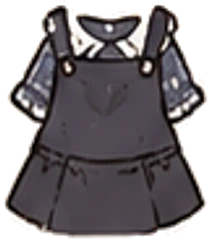
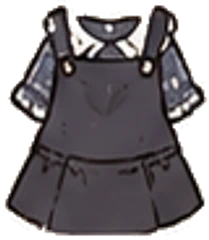
Dress Up: dress the doll from Aiman's design with full arms; no accessories
Dresses on the other girls looked pasted on over their own painted
clothes, so Dress Up now dresses the doll from her Dress-Up Room design,
with her arm coming out of every sleeve, and the dresses' light card rim
peeled off. Done puts the dressed doll at home; "<girl>'s own look" puts
the chosen girl back. The Accessories tab is removed at her request.

diff --git a/public/js/dressup.js b/public/js/dressup.js
@@ -1,11 +1,13 @@
-// Dress Up: pick one of your girls, then dress her in the outfits and accessories from
-// Aiman's Dress-Up Room design (cut by assets/cut-dressup.mjs into img/dressup/), add makeup,
-// and pick a background. Some things are free, the rest cost stars. "Done" saves the look for
-// that girl, and she wears it at home too; "Her outfit" puts her own clothes back on.
+// Dress Up: dress the doll from Aiman's Pastel Kawaii Dress-Up Room design in its outfits and
+// accessories (all cut by assets/cut-dressup.mjs into img/dressup/), add makeup, and pick a
+// background. Some things are free, the rest cost stars. "Done" saves the look and she stands
+// at home wearing it; "My girl's own look" puts your chosen girl back at home in her own clothes.
+// (Dressing the doll, who only wears a camisole and shorts, looks natural; the other girls
+// can become dolls too once the hair sheet gives the doll their hairstyles.)
 //
 // A look: { dress: 1..18 | null, acc: ['bow', ...], makeup: { blush, lips, shadow, freckles, sparkle }, bg }
-// Everything is placed on the girl by her height (all the standing girls share one shape):
-// the dress from her shoulders to her knees, the doll's arms coming out of its sleeves.
+// Everything is placed in the doll's own picture (img/dressup/doll.webp, 348 x 710):
+// the dress from her shoulders to her knees, her arm coming out of each sleeve.
 window.BW = window.BW || {};
 
 BW.dressup = (() => {
@@ -22,16 +24,18 @@ BW.dressup = (() => {
   const DRESS_PRICES = [0, 0, 150, 150, 120, 0, 180, 200, 0, 160, 200, 180, 160, 0, 250, 0, 180, 220];
   const DRESSES = DRESS_NAMES.map((name, i) => ({ id: 'dress-' + (i + 1), n: i + 1, name, price: FREE_DRESSES.includes(i + 1) ? 0 : DRESS_PRICES[i] }));
 
-  // accessories: where they sit, in parts of the girl's height from the middle of her head
-  // (x) and from the top of the picture (y), and how big (w)
+  // the doll: her picture's size, the middle of her body and of her face (doll pixels)
+  const DOLL = { w: 348, h: 710, body: 178, face: 172 };
+  // accessories: where their middle sits, in doll pixels from the middle of her face (x) and
+  // from the top (y), and how wide (w)
   const ACCS = [
-    { id: 'bow', n: 1, name: 'Ribbon Bow', price: 0, x: 0.12, y: 0.06, w: 0.1, rot: 0.25 },
-    { id: 'pins', n: 2, name: 'Hair Pins', price: 60, x: -0.13, y: 0.15, w: 0.085, rot: -0.5 },
-    { id: 'headband', n: 3, name: 'Headband', price: 80, x: 0, y: 0.068, w: 0.2, sy: 0.55 },
-    { id: 'beret', n: 4, name: 'Beret', price: 120, x: 0.015, y: 0.06, w: 0.25, rot: 0.08 },
-    { id: 'glasses', n: 5, name: 'Round Glasses', price: 0, x: 0, y: 0.264, w: 0.125 },
-    { id: 'bag', n: 6, name: 'Shoulder Bag', price: 100, x: 0.16, y: 0.6, w: 0.13 },
-    { id: 'bunny', n: 7, name: 'Bunny Plush', price: 150, x: -0.165, y: 0.65, w: 0.12 }
+    { id: 'bow', n: 1, name: 'Ribbon Bow', price: 0, x: 86, y: 52, w: 66, rot: 0.3 },
+    { id: 'pins', n: 2, name: 'Hair Pins', price: 60, x: -88, y: 150, w: 54, rot: -0.6 },
+    { id: 'headband', n: 3, name: 'Headband', price: 80, x: 4, y: 62, w: 214, sy: 0.45 },
+    { id: 'beret', n: 4, name: 'Beret', price: 120, x: 10, y: 52, w: 220, rot: 0.08 },
+    { id: 'glasses', n: 5, name: 'Round Glasses', price: 0, x: 8, y: 192, w: 132 },
+    { id: 'bag', n: 6, name: 'Shoulder Bag', price: 100, x: 104, y: 450, w: 84 },
+    { id: 'bunny', n: 7, name: 'Bunny Plush', price: 150, x: -96, y: 470, w: 80 }
   ];
   // only one thing on top of the head at a time
   const ON_HEAD = ['headband', 'beret'];
@@ -81,24 +85,24 @@ BW.dressup = (() => {
     return sleeves;
   }
 
-  // The girl wearing a look, drawn onto a new canvas (a bit wider than her picture so wide
+  // The doll wearing a look, drawn onto a new canvas (a bit wider than her picture so wide
   // sleeves fit). Resolves to null if her picture can't load.
-  async function render(girl, look) {
-    const body = await pic(`img/standing/${girl}.webp`);
+  async function render(look) {
+    const body = await pic('img/dressup/doll.webp');
     if (!body) return null;
-    const h = body.naturalHeight, w = body.naturalWidth, W = Math.round(w * 1.25), cx = W / 2;
+    const { h } = DOLL, W = Math.round(DOLL.w * 1.2), ox = W / 2 - DOLL.body;
     const c = document.createElement('canvas');
     c.width = W; c.height = h;
     const ctx = c.getContext('2d');
-    ctx.drawImage(body, (W - w) / 2, 0, w, h);
+    ctx.drawImage(body, ox, 0);
     if (look && look.dress) {
       const [dress, arm, sl] = await Promise.all([pic(`img/dressup/dress/${look.dress}.webp`), pic('img/dressup/arm.webp'), sleeveData()]);
       if (dress) {
-        const dh = h * 0.43, dw = dh * dress.naturalWidth / dress.naturalHeight, dx = cx - dw / 2, dy = h * 0.35;
+        const dh = h * 0.4225, dw = dh * dress.naturalWidth / dress.naturalHeight, dx = W / 2 - dw / 2, dy = h * 0.352;
         const s = sl[look.dress - 1];
         if (arm && s) {
-          // full arms: the doll's arm under each sleeve (mirrored for the left one)
-          const ah = h * 0.22, aw = ah * arm.naturalWidth / arm.naturalHeight;
+          // full arms: her arm coming out of each sleeve (mirrored for the left one)
+          const ah = h * 0.26, aw = ah * arm.naturalWidth / arm.naturalHeight;
           [[s.left, -1], [s.right, 1]].forEach(([p, flip]) => {
             ctx.save();
             ctx.translate(dx + p[0] * dw, dy + p[1] * dh - ah * 0.45);
@@ -111,14 +115,15 @@ BW.dressup = (() => {
       }
     }
     if (look) {
-      drawMakeup(ctx, cx, h, look.makeup || {});
+      const fx = ox + DOLL.face;
+      drawMakeup(ctx, fx, look.makeup || {});
       for (const id of look.acc || []) {
         const a = ACCS.find(x => x.id === id);
         const im = a && await pic(`img/dressup/acc/${a.n}.webp`);
         if (!im) continue;
-        const aw = h * a.w, ah = aw * im.naturalHeight / im.naturalWidth * (a.sy || 1);
+        const aw = a.w, ah = aw * im.naturalHeight / im.naturalWidth * (a.sy || 1);
         ctx.save();
-        ctx.translate(cx + a.x * h, a.y * h);
+        ctx.translate(fx + a.x, a.y);
         if (a.rot) ctx.rotate(a.rot);
         ctx.drawImage(im, -aw / 2, -ah / 2, aw, ah);
         ctx.restore();
@@ -127,36 +132,35 @@ BW.dressup = (() => {
     return c;
   }
 
-  // soft makeup on her face (eyes sit at about a quarter of her height)
-  function drawMakeup(ctx, cx, h, m) {
-    const eyeY = h * 0.264, eyeX = h * 0.039;
+  // soft makeup on her face (doll pixels: eyes at 190, cheeks at 228, mouth at 213)
+  function drawMakeup(ctx, fx, m) {
     ctx.save();
     if (m.shadow && m.shadow !== 'none') {
       ctx.globalAlpha = 0.35; ctx.fillStyle = m.shadow;
-      [-1, 1].forEach(s => { ctx.beginPath(); ctx.ellipse(cx + s * eyeX, eyeY - h * 0.016, h * 0.022, h * 0.009, 0, Math.PI, 0); ctx.fill(); });
+      [-1, 1].forEach(s => { ctx.beginPath(); ctx.ellipse(fx + s * 38, 172, 20, 9, 0, Math.PI, 0); ctx.fill(); });
     }
     if (m.blush && m.blush !== 'none') {
       [-1, 1].forEach(s => {
-        const x = cx + s * h * 0.062, y = h * 0.292, r = h * 0.024;
+        const x = fx + s * 56, y = 228, r = 20;
         const g = ctx.createRadialGradient(x, y, 0, x, y, r);
         g.addColorStop(0, m.blush); g.addColorStop(1, 'rgba(255,255,255,0)');
-        ctx.globalAlpha = 0.55; ctx.fillStyle = g;
+        ctx.globalAlpha = 0.6; ctx.fillStyle = g;
         ctx.beginPath(); ctx.ellipse(x, y, r, r * 0.6, 0, 0, Math.PI * 2); ctx.fill();
       });
     }
     if (m.lips && m.lips !== 'none') {
-      ctx.globalAlpha = 0.8; ctx.fillStyle = m.lips;
-      ctx.beginPath(); ctx.ellipse(cx, h * 0.302, h * 0.007, h * 0.0045, 0, 0, Math.PI * 2); ctx.fill();
+      ctx.globalAlpha = 0.85; ctx.fillStyle = m.lips;
+      ctx.beginPath(); ctx.ellipse(fx + 2, 214, 5, 3, 0, 0, Math.PI * 2); ctx.fill();
     }
     if (m.freckles === 'on') {
       ctx.globalAlpha = 0.55; ctx.fillStyle = '#B9805F';
-      [-1, 1].forEach(s => [[0.05, 0.283], [0.062, 0.279], [0.057, 0.288], [0.07, 0.285]].forEach(([fx, fy]) => {
-        ctx.beginPath(); ctx.arc(cx + s * fx * h, fy * h, h * 0.0025, 0, Math.PI * 2); ctx.fill();
+      [-1, 1].forEach(s => [[44, 218], [54, 214], [50, 224], [62, 220]].forEach(([dx, y]) => {
+        ctx.beginPath(); ctx.arc(fx + s * dx, y, 1.8, 0, Math.PI * 2); ctx.fill();
       }));
     }
     if (m.sparkle === 'on') {
       ctx.globalAlpha = 0.95; ctx.fillStyle = '#FFFFFF';
-      [[-0.075, 0.27, 0.012], [0.08, 0.255, 0.009], [0.07, 0.3, 0.007]].forEach(([sx, sy, r]) => star(ctx, cx + sx * h, sy * h, r * h));
+      [[-62, 196, 9], [64, 182, 7], [58, 244, 5]].forEach(([dx, y, r]) => star(ctx, fx + dx, y, r));
     }
     ctx.restore();
   }
@@ -166,17 +170,18 @@ BW.dressup = (() => {
     ctx.closePath(); ctx.fill();
   }
 
-  // the girl as a picture for <img> tags (home scene), or her plain picture with no look
+  // Who stands at home: the dressed doll after "Done", or your chosen girl in her own clothes.
+  // Resolves to { src, dressed }.
   const urls = {};
-  async function pictureOf(girl) {
-    const look = looks()[girl];
-    if (!look) return `img/standing/${girl}.webp`;
-    const key = girl + JSON.stringify(look);
+  async function homePicture(girl) {
+    const look = looks().doll;
+    if (!store.data.dollAtHome || !look) return { src: `img/standing/${girl}.webp`, dressed: false };
+    const key = JSON.stringify(look);
     if (!urls[key]) {
-      const c = await render(girl, look);
-      urls[key] = c ? c.toDataURL('image/png') : `img/standing/${girl}.webp`;
+      const c = await render(look);
+      urls[key] = c ? c.toDataURL('image/png') : null;
     }
-    return urls[key];
+    return urls[key] ? { src: urls[key], dressed: true } : { src: `img/standing/${girl}.webp`, dressed: false };
   }
 
   // ---------- the screen ----------
@@ -185,29 +190,13 @@ BW.dressup = (() => {
 
   function open(done) {
     onClose = done;
-    const people = BW.friends.list.filter(f => f.group === 'girls' && store.owns(f.id));
-    const grid = $('dollGrid');
-    grid.innerHTML = '';
-    people.forEach(f => {
-      const b = document.createElement('button');
-      b.type = 'button';
-      b.className = 'doll-pick';
-      b.innerHTML = `<img alt=""><span>${f.name}</span>`;
-      pictureOf(f.id).then(src => { b.querySelector('img').src = src; });
-      b.addEventListener('click', () => { BW.sound.play('click'); start(f.id); });
-      grid.appendChild(b);
-    });
-    $('dollPicker').hidden = false;
-    BW.sound.music('dress');
-  }
-
-  function start(id) {
-    girl = id;
-    look = JSON.parse(JSON.stringify(looks()[id] || empty()));
-    $('dollPicker').hidden = true;
+    girl = BW.friends.get(store.data.girl) ? store.data.girl : 'girl-1';
+    look = JSON.parse(JSON.stringify(looks().doll || empty()));
+    look.acc = [];
     $('dressup').hidden = false;
-    $('dressName').textContent = BW.friends.get(id).name;
+    $('dressName').textContent = 'My Girl';
     tab = 'dress';
+    BW.sound.music('dress');
     showStars();
     renderTabs();
     renderItems();
@@ -216,7 +205,6 @@ BW.dressup = (() => {
 
   function close() {
     $('dressup').hidden = true;
-    $('dollPicker').hidden = true;
     BW.sound.music('home');
     if (onClose) onClose();
   }
@@ -230,7 +218,7 @@ BW.dressup = (() => {
     const stage = $('dressStage');
     stage.style.backgroundImage = `url(${bg.src})`;
     stage.className = 'dress-stage bg-' + bg.id;
-    const c = await render(girl, look);
+    const c = await render(look);
     if (mine !== drawing || !c) return;
     const box = $('dressDoll');
     box.innerHTML = '';
@@ -238,7 +226,8 @@ BW.dressup = (() => {
     box.appendChild(c);
   }
 
-  const TABS = [['dress', 'Dress'], ['hair', 'Hair'], ['makeup', 'Makeup'], ['accessories', 'Accessories'], ['background', 'Background']];
+  // (Accessories were taken out at Aiman's request; ACCS stays for later)
+  const TABS = [['dress', 'Dress'], ['hair', 'Hair'], ['makeup', 'Makeup'], ['background', 'Background']];
   function renderTabs() {
     document.querySelectorAll('.dress-side button[data-tab]').forEach(b => b.classList.toggle('on', b.dataset.tab === tab));
     $('dressPanelTitle').textContent = TABS.find(t => t[0] === tab)[1];
@@ -278,7 +267,15 @@ BW.dressup = (() => {
     box.innerHTML = '';
     box.className = 'dress-items';
     if (tab === 'dress') {
-      box.appendChild(card({ name: 'Her outfit', img: `img/standing/${girl}.webp`, on: !look.dress, wide: false,
+      // your chosen girl back at home in her own clothes
+      box.appendChild(card({ name: `${BW.friends.get(girl).name}'s own look`, img: `img/standing/${girl}.webp`, on: !store.data.dollAtHome,
+        tap: () => {
+          BW.sound.play('swipe');
+          store.data.dollAtHome = false; store.save();
+          BW.app.toast(`${BW.friends.get(girl).name} is wearing her own outfit at home ♥`);
+          close();
+        } }));
+      box.appendChild(card({ name: 'No dress', img: 'img/dressup/doll.webp', on: !look.dress,
         tap: () => { BW.sound.play('swipe'); look.dress = null; renderItems(); redraw(); } }));
       DRESSES.forEach(d => box.appendChild(card({
         name: d.name, img: `img/dressup/dress/${d.n}.webp`, on: look.dress === d.n, locked: !has(d.id), price: d.price,
@@ -319,7 +316,7 @@ BW.dressup = (() => {
 
   function save() {
     const blank = !look.dress && !look.acc.length && Object.values(look.makeup).every(v => v === 'none') && look.bg === 'cottage';
-    if (blank) delete looks()[girl]; else looks()[girl] = JSON.parse(JSON.stringify(look));
+    if (blank) delete looks().doll; else looks().doll = JSON.parse(JSON.stringify(look));
     store.save();
   }
 
@@ -327,18 +324,18 @@ BW.dressup = (() => {
     document.querySelectorAll('.dress-side button[data-tab]').forEach(b => b.addEventListener('click', () => {
       BW.sound.play('click'); tab = b.dataset.tab; renderTabs(); renderItems();
     }));
-    $('dressSave').addEventListener('click', () => { save(); BW.sound.play('sparkle'); BW.app.toast(`${BW.friends.get(girl).name}'s look is saved ♥`); });
+    $('dressSave').addEventListener('click', () => { save(); BW.sound.play('sparkle'); BW.app.toast('Look saved ♥'); });
     $('dressDone').addEventListener('click', () => {
       save();
       BW.sound.play('sparkle');
-      // she becomes the girl at home, wearing her new look
-      store.setGirl(girl);
+      // she stands at home wearing her new look
+      store.data.dollAtHome = !!looks().doll;
+      store.save();
       close();
     });
     $('dressReset').addEventListener('click', () => { BW.sound.play('swipe'); look = empty(); renderItems(); redraw(); });
     $('dressBack').addEventListener('click', close);
-    $('dollBack').addEventListener('click', close);
   }
 
-  return { open, wire, pictureOf, render };
+  return { open, wire, homePicture, render };
 })();

diff --git a/public/style.css b/public/style.css
@@ -569,11 +569,8 @@ button:focus-visible { outline: 3px solid var(--pink); outline-offset: 3px; }
 .switch-row input:checked + i { background: var(--pink); }
 .switch-row input:checked + i::after { transform: translateX(20px); }
 /* ---------- Dress Up (Aiman's Pastel Kawaii Dress-Up Room) ---------- */
-.home .scene-girl.dressed { transform: translateX(-72.4%); }
-.doll-card { max-width: 320px; }
-.doll-grid { display: grid; grid-template-columns: repeat(4, 1fr); gap: 6px; max-height: 360px; overflow-y: auto; padding: 4px; }
-.doll-pick { border: 2px solid #E7C3BC; border-radius: 12px; background: #FFF6EA; padding: 4px 2px 2px; display: flex; flex-direction: column; align-items: center; color: #6E4A3A; font: 700 11px var(--display); }
-.doll-pick img { width: 100%; height: 80px; object-fit: cover; object-position: 50% 0; }
+/* the dressed doll's picture is wider than a girl's; this keeps her standing in the same spot */
+.home .scene-girl.dressed { transform: translateX(-69.2%); }
 .dressup { background: linear-gradient(#F8E6E0, #EFD7CC); color: #6E4A3A; }
 .dress-top { position: absolute; left: 0; right: 0; top: 0; height: 52px; display: flex; align-items: center; gap: 8px; padding: 0 8px; }
 .dress-back { width: 42px; height: 42px; padding: 0; border: 0; border-radius: 50%; overflow: hidden; background: none; }

diff --git a/public/index.html b/public/index.html
@@ -260,15 +260,6 @@
         </div>
       </div>
 
-      <!-- Dress Up: first pick which of your girls to get ready -->
-      <div class="panel dim" id="dollPicker" hidden>
-        <div class="card doll-card">
-          <h2>Who's getting ready?</h2>
-          <div class="doll-grid" id="dollGrid"></div>
-          <button class="btn ghost" id="dollBack" type="button">Back</button>
-        </div>
-      </div>
-
       <!-- Dress Up room (Aiman's Pastel Kawaii Dress-Up Room design) -->
       <section class="screen dressup" id="dressup" hidden>
         <header class="dress-top">
@@ -280,7 +271,6 @@
           <button type="button" data-tab="dress"><img src="img/dressup/ui/dress.webp" alt="Dress"></button>
           <button type="button" data-tab="hair"><img src="img/dressup/ui/hair.webp" alt="Hair"></button>
           <button type="button" data-tab="makeup"><img src="img/dressup/ui/makeup.webp" alt="Makeup"></button>
-          <button type="button" data-tab="accessories"><img src="img/dressup/ui/accessories.webp" alt="Accessories"></button>
           <button type="button" data-tab="background"><img src="img/dressup/ui/background.webp" alt="Background"></button>
           <button type="button" id="dressSave"><img src="img/dressup/ui/save.webp" alt="Save"></button>
         </nav>

diff --git a/public/js/app.js b/public/js/app.js
@@ -88,7 +88,8 @@
 
   // Picks a girl (shown as your profile picture) or an animal (plays with you in the games)
   function pickFriend(id) {
-    if (BW.friends.isPerson(id)) store.setGirl(id);
+    // choosing a girl or guy in the Shop puts them at home (instead of the dressed-up doll)
+    if (BW.friends.isPerson(id)) { store.setGirl(id); store.data.dollAtHome = false; store.save(); }
     else store.setCharacter(id);
     showGirl();
   }
@@ -98,11 +99,11 @@
   function showGirl() {
     $('avatarBtn').querySelector('img').src = BW.friends.img(store.data.girl);
     $('avatarBtn').classList.toggle('guy', store.data.girl.startsWith('guy-'));
-    const me = store.data.girl, dressed = !!(store.data.looks && store.data.looks[me]);
-    BW.dressup.pictureOf(me).then(src => {
+    const me = store.data.girl;
+    BW.dressup.homePicture(me).then(p => {
       if (store.data.girl !== me) return;
-      $('sceneGirl').src = src;
-      $('sceneGirl').classList.toggle('dressed', dressed);
+      $('sceneGirl').src = p.src;
+      $('sceneGirl').classList.toggle('dressed', p.dressed);
     });
     $('scenePet').src = BW.friends.cutout(store.data.character).src;
   }

diff --git a/HANDOFF.md b/HANDOFF.md
@@ -24,7 +24,7 @@ I'm Aiman (beginner developer, Pakistan; I like short plain explanations and pic
 - Games (`public/js/games/`): Flappy Bunny (drawn flying bunny with wings), Catch the Fish (net), Merge the Fish (merge chain → axolotl gives the Fish Maker gift), Bubble Pop (bubble shooter), Memory. Sea creatures (and the shark + croc in Catch the Fish) are drawn in `public/js/sea.js`. Catch the Fish: the net always shows and follows the finger/mouse; caught fish fly into a bucket; 3 hearts, pufferfish/shark/croc = -1 heart, 0 hearts or 45s ends it; 2 stars per 6 fish (no medal bonus). The top-left home button in every game opens a Pause card (Resume / Home); leaving the app pauses too (`BW.kit.paused`). Coming-soon cards: Match 3, Adventure, Decorate Room, Dress Up, Garden.
 - Flappy Bunny controls: on opening it asks Tap / Hand wave / Tilt phone (`public/js/motion.js`; I asked to remove Eye motion). Hand wave uses the front camera with Google MediaPipe hand landmarker, kept in `public/vendor/mediapipe/` (library, wasm, model, ~17 MB, so blocked CDNs don't matter); the bunny flies to where the hand / phone tilt points, no gravity. Left-facing animals are flipped to face right; chicks fly without the extra wings. Small mirrored camera preview top-right. Camera denied → falls back to taps. Android: CAMERA permission added to AndroidManifest.
 - Sound (`public/js/sound.js`): every sound made with Web Audio (no files). Music loops: home (music box), bubble (with a soft beat), cook (shops), dress (ready for Dress Up). SFX in every game (hop/score/bonk, shoot/pop, splash/catch/wrong, merge, flip/match, chop/plop/mix/ding/burn/serve, coin, sparkle, over). Boiling / oven loops while food cooks. Settings button = Sound effects / Music switches (saved). Match 3 and Memory merged: one Memory card with the Match 3 picture.
-- Dress Up (`public/js/dressup.js`): tile → "Who's getting ready?" (owned girls only) → dressing room built from my Pastel Kawaii Dress-Up Room design (`assets/design/dressup-room.png`; buttons, 18 dresses, 7 accessories and the doll's arm cut by `assets/cut-dressup.mjs` into `public/img/dressup/`). Dresses go straight onto my girls' own pictures (shoulders to knees, by her height) with the doll's arms coming out of each dress's sleeves (`sleeves.json`). Accessories placed by height; makeup (blush, lips, eyeshadow, freckles, sparkles) drawn on the face; backgrounds for the stage. 6 dresses + bow + glasses + basic makeup free, the rest cost stars (bought by tapping). Looks saved per girl in `store.data.looks` (owned items in `store.data.wardrobe`); "Her outfit" = her own clothes; Done makes her the home girl wearing the look. Hair: each girl keeps her own hair until the hair sheet (prompts in `assets/design/dressup-prompts.md`).
+- Dress Up (`public/js/dressup.js`): dresses the doll from my Pastel Kawaii Dress-Up Room design (`assets/design/dressup-room.png`; doll, her arm, 18 dresses, 7 accessories and the buttons cut by `assets/cut-dressup.mjs` into `public/img/dressup/`). Dressing my other girls looked pasted on (their pictures already have clothes), so they'll become dolls only once the hair sheet exists (prompts in `assets/design/dressup-prompts.md`). The doll's arm comes out of each dress's sleeves (`sleeves.json`). Tabs: Dress, Hair (waiting for the sheet), Makeup, Background; Accessories removed at my request (code kept in ACCS). 6 dresses + basic makeup free, the rest cost stars. Look saved in `store.data.looks.doll`; Done → the dressed doll stands at home (`store.data.dollAtHome`); "<girl>'s own look" or choosing a girl in the Shop puts my girl back.
 - Cooking shops (`public/js/games/cook.js` + `shops.js` + drawn food in `food-art.js`): Sushi Shop, Ramen Shop, Cake & Sweets. Front screen = my whole shop design with START COOKING and the Recipes book. Kitchen view: my shop's wall with a framed menu board; girls and guys order from it (bubble + patience bar). My counter: cooking station (my rice cooker / stove crops; a drawn pink oven for cakes) with 2 cooking spots (cook 2.5s / bake 3.5s, tap when Ready, burns after 7s), ingredient boxes, and a plate / ramen bowl / mixing bowl. Rice and noodles come out drawn round (fluffy mound / noodle nest); toppings stack on top; when the plate holds a whole recipe it turns into that dish's menu picture. Sushi/Ramen: tap the plate to serve. Cake & Sweets: drawn ingredients (flour, eggs, sugar, milk, butter, chocolate, strawberry, cream) → mixing bowl → tap to bake that recipe's cake in the oven → tap the ready cake to serve it. Recipe bar always on the right (ordered recipes glow pink). 90s shift, 3 customers lost = closed, 2 stars per 3 orders, ≡ = pause. Boxes measured in the 941 x 1671 design in `shops.js`.
 - ID card: tap your picture at the top left → pink ID card (like my reference): photo, chosen animal, ID number from the player id, barcode, editable name (= Top 10 name), date of birth and skill (`store.setProfile`).
 - Guys: 22 full-body guys (`assets/design/friends/guys-full.webp`) cut with the girls by `assets/cut-people.mjs` (soft clean edges) into `public/img/standing/guy-N.webp`. Shop has Girls / Guys / Animals & Sea; Kai (guy-1) and Leo (guy-2) are free. You can be a girl or a guy (`store.data.girl` holds either). The "Choose Your Guy" sign = blank plaque from `assets/make-header-guy.mjs` + text in the page. Guys 10 (NIKE), 14 (Supreme), 21 (GAP) show brands: redraw before the Play Store.
